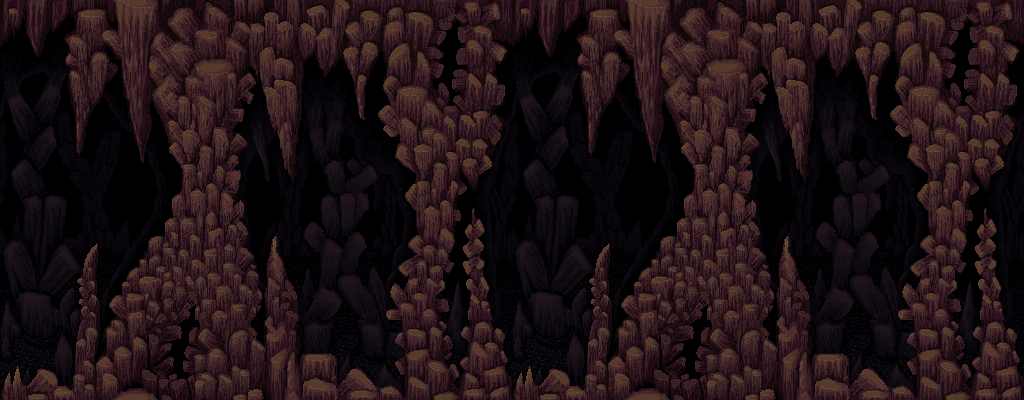
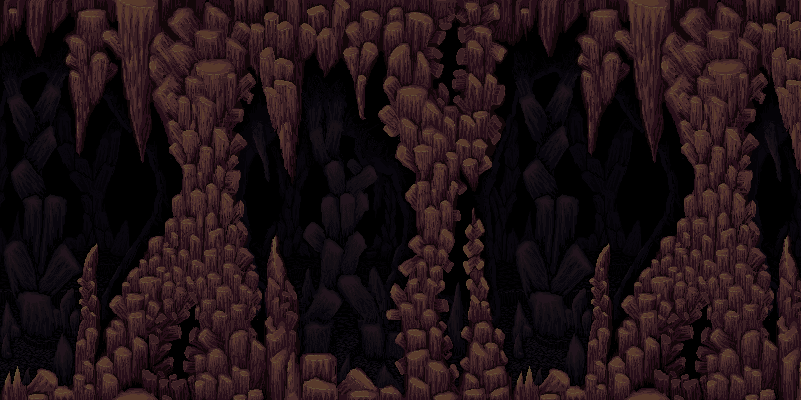
resized some images and fixed thing superclass

diff --git a/mainwindow.cpp b/mainwindow.cpp
@@ -56,22 +56,22 @@ MainWindow::MainWindow()
     buttonLayout->addWidget(quitButton);
     connect(quitButton, SIGNAL(clicked()), this, SLOT(closeGame()));
     
-	//Qlabel output
+		//Qlabel output
 	outputLabel = new QLabel(this);
 	outputLabel->setFrameStyle(QFrame::Panel | QFrame::Sunken);
 	outputLabel->setText("Enter your name and click start to begin the game.");
 	controlLayout->addWidget(outputLabel);
 	
-    buttons->setLayout(buttonLayout);
-    controls->setLayout(controlLayout);
-    bottomPanel->setWidget(buttons);
-   	topPanel->setWidget(controls);
+	buttons->setLayout(buttonLayout);
+	controls->setLayout(controlLayout);
+	bottomPanel->setWidget(buttons);
+	topPanel->setWidget(controls);
     
-    this->addDockWidget(Qt::BottomDockWidgetArea,bottomPanel);
-    this->addDockWidget(Qt::TopDockWidgetArea,topPanel);
-    this->setCentralWidget(game);
-    
-    this->setFixedSize(600,600);
+	this->addDockWidget(Qt::BottomDockWidgetArea,bottomPanel);
+	this->addDockWidget(Qt::TopDockWidgetArea,topPanel);
+	this->setCentralWidget(game);
+	
+	//this->setFixedSize(855,655);
     
 }
 

diff --git a/GraphicWindow.cpp b/GraphicWindow.cpp
@@ -1,6 +1,7 @@
 #include "GraphicWindow.h"
 #include <cmath>
 #include <QtAlgorithms>
+#include <QBrush>
 #include <iostream>
 #include "charizard.h"
 
@@ -18,11 +19,10 @@ GraphicWindow::GraphicWindow(MainWindow *parent)
   
   //creating player instance
   QPixmap* playerSprite = new QPixmap(QString("charizardSprite.png"));
-  Charizard* player = new Charizard(this, playerSprite,100,100);
+  Charizard* player = new Charizard(playerSprite,100,100);
   player->setPos(100,100);
   scene->addItem(player);
-  
-  
+
   setScene(scene);
 }
 

diff --git a/thing.h b/thing.h
@@ -4,15 +4,12 @@
 //abstract superclass to hold "things"
 
 #include <QGraphicsPixmapItem>
-#include "GraphicWindow.h"
-
-class GraphicWindow;
 
 class Thing : public QGraphicsPixmapItem
 {
 	public:
-		Thing(GraphicWindow* parent, QPixmap *pm, int nx, int ny);
-		virtual void move();
+		Thing(QPixmap *pm, int nx, int ny);
+		virtual void move() = 0;
 		
 	private:
 		int x;

diff --git a/charizard.h b/charizard.h
@@ -2,15 +2,12 @@
 #define CHARIZARD_H
 
 #include <QGraphicsPixmapItem>
-#include "GraphicWindow.h"
 #include "thing.h"
-
-class GraphicWindow;
 
 class Charizard : public Thing
 {
 	public:
-		Charizard(GraphicWindow* parent, QPixmap *pm, int nx, int ny);
+		Charizard(QPixmap *pm, int nx, int ny);
 		~Charizard();
 		void move();
 };

diff --git a/charizard.cpp b/charizard.cpp
@@ -2,7 +2,7 @@
 #include <QString>
 
 //constructor
-Charizard::Charizard(GraphicWindow* parent, QPixmap *pm, int nx, int ny) : Thing(parent, pm, nx, ny)
+Charizard::Charizard(QPixmap *pm, int nx, int ny) : Thing(pm, nx, ny)
 {
 
 }

diff --git a/thing.cpp b/thing.cpp
@@ -1,6 +1,6 @@
 #include "thing.h"
 
-Thing::Thing(GraphicWindow* parent, QPixmap* p, int nx, int ny)
+Thing::Thing(QPixmap* p, int nx, int ny)
 {
 	pixMap = p;
 	setPixmap(*p);

diff --git a/GraphicWindow.h b/GraphicWindow.h
@@ -9,6 +9,7 @@
 #include <QPushButton>
 #include <QGraphicsPixmapItem>
 #include "mainwindow.h"
+#include "thing.h"
 #include "charizard.h"
 
 class MainWindow;
